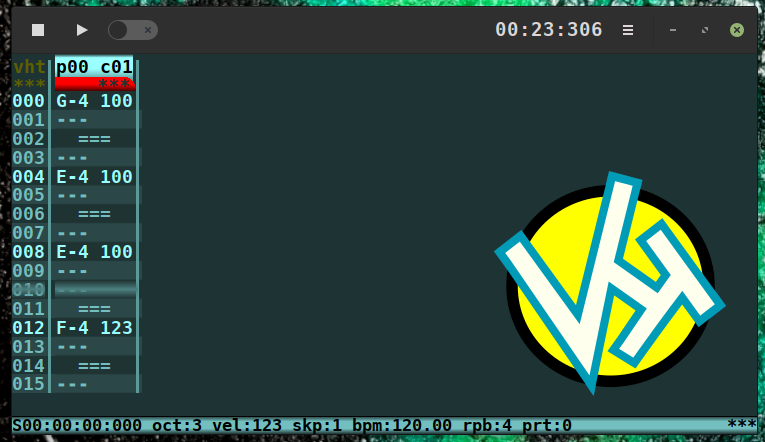
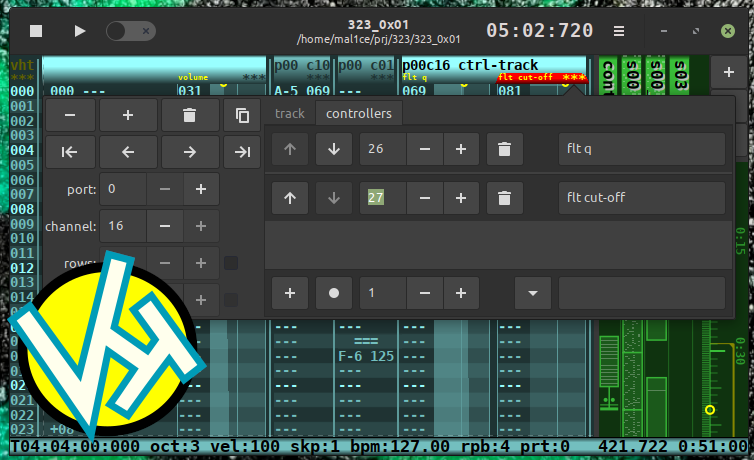
updated readme and screenshot

diff --git a/README.md b/README.md
@@ -4,26 +4,23 @@ Valhalla Tracker aims to be a MIDI sequencing companion
 for GNU/Linux audio setups. Adhering to Unix philosophy,
 it tries to do one thing well
 
-- by itself produces no sound and won't run on Windows™
-- timing/input/output relies 100% on JACK
-- seems to work with fluidsynth, Carla, ZynAddSubFX and a MIDI controller
-- probably most suitable for loop based music
-- minimalistic by design
-- minimalistic by necessity
-- can save and load files
-- sparsely documented for hacking pleasure
+- input/output relies 100% on JACK
+- which allows for sample exact timing
+- and freewheel rendering
+- fits well between a MIDI controller and Carla/fluidsynth/Zyn
+- fast workflow with lots of keyboard shortcuts
+- allows for "unheard of" time signatures
+- starts in one second, builds in five
+- fits on a floppy
 
-## in zip
-- C library which talks to JACK and runs gameloop
-- it's Python counterpart, lazily wrapped with SWIG
-- GTK human interface also written in snake language
+The sequencing engine is written in C, has a Python library on top
+of it, which can be used headless (for generative composition or whatever).
+The GUI is also written in Python and uses GTK through GObject Introspection.
 
-## deps
+## dependencies
 ```
 fedora - python3-devel jack-audio-connection-kit-devel jack_capture
 ubuntu - build-essential python3-dev python3-setuptools libjack-jackd2-dev jack-capture
-
-and the usual jack/GNOME stuff
 ```
 
 ## install
